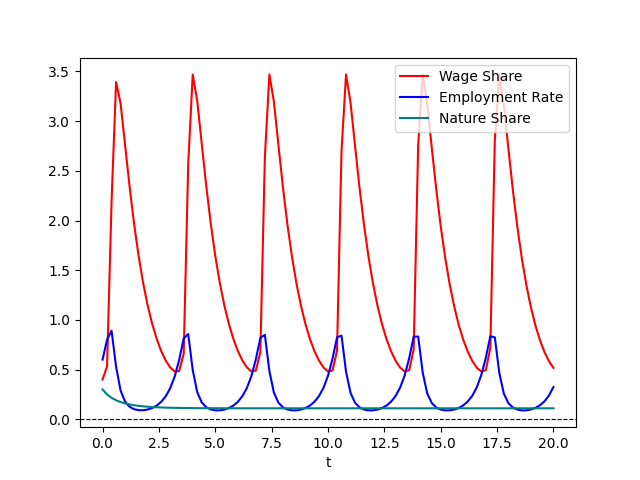
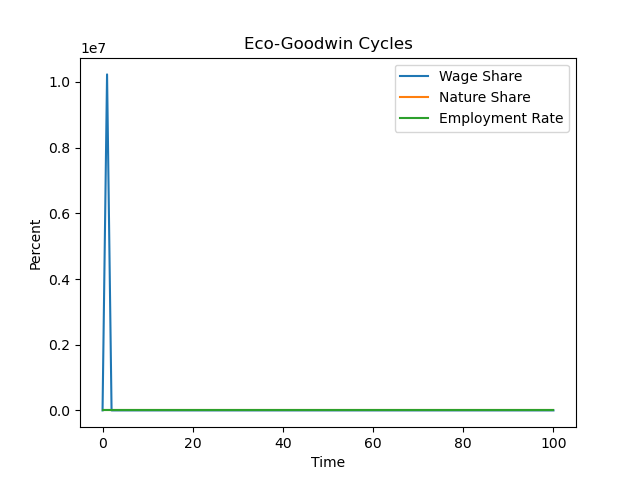
ugh

diff --git a/jupyter-env/Eco-Goodwin Cycles.py b/jupyter-env/Eco-Goodwin Cycles.py
@@ -1,18 +1,17 @@
 import numpy as np
-def eco_goodwin(y, t, s, n, delta, sig, phi0, phi1, phi2, a0, a1, a2, a3, theta0, theta1, lam, G, d):
-    omega, eta, e, x, k, v, z, b = y
-    dydt = [omega*(phi0+phi1/(1-e)+(phi2-1)*(a0+a1/(1-e)+a2*omega+a3*eta)), eta*(theta0+theta1*eta+((v**(sig/(1-sig)))/(1-sig))*(lam*(1-x/G)-d-(1-omega-eta-delta*z)/(s*k-z))), e*((1-omega-eta-delta*z)/(s*k-z)-n), x*(lam*(1-x/G)-d), k*((1-omega-eta-delta*z)/(s*k-z)), v*(lam*(1-x/G)-d - (1-omega-eta-delta*z)/(s*k-z)), z*((1-omega-eta-delta*z)/(s*k-z)-(1-omega-eta-delta*z)/(s*k-z)), b*(theta0+theta1*eta)]
-    return dydt
+import matplotlib.pyplot as plt
+from scipy.integrate import odeint
+
 
 
 # Initialize parameters
 s=0.8
 n=0.01
 delta=0.01
-sig=0.1
+sig=-100000000
 phi0=-1
 phi1=1
-phi2=1 #Captures worker power
+phi2=2 #Captures worker power
 a0=1
 a1=1
 a2=1
@@ -24,43 +23,78 @@ lam=0.1
 d=1
 rho=1
 
-y0 = [0.3,0.3,0.8,400,100,1,1,1]
+# solve the system dy/dt = f(y, t)
+def f(y, t):
+     wi = y[0]
+     etai = y[1]
+     ei = y[2]
+     xi = y[3]
+     ki = y[4]
+     vi = y[5]
+     zi = y[6]
+     bi = y[7]
+     y_outi = y[8]
+     # the model equations 
+     f0 = wi*(phi0+phi1/(1-ei)+(phi2-1)*(a0+a1/(1-ei)+a2*wi+a3*etai))
+     f1 = etai*(theta0+theta1*etai+((vi**(sig/(1-sig)))/(sig-1))*(lam*(1-xi/G)-d-(1-wi-etai-delta*zi)/(s*ki-zi)))
+     f2 = ei*((1-wi-etai-delta*zi)/(s*ki-zi)-n)
+     f3 = xi*(lam*(1-xi/G)-d)
+     f4 = ki*((1-wi-etai-delta*zi)/(s*ki-zi))
+     f5 = vi*(lam*(1-xi/G)-d - (1-wi-etai-delta*zi)/(s*ki-zi))
+     f6 = zi*((1-wi-etai-delta*zi)/zi-(1-wi-etai-delta*zi)/(s*ki-zi))
+     f7 = bi*(theta0+theta1*etai)
+     f8 = y_outi*((1-wi-etai-delta*zi)/(s*ki-zi))
+     return [f0, f1, f2, f3, f4, f5, f6, f7, f8]
 
-y=(rho*y0[5]**((sig-1)/sig)+b*y0[4]**(sig/(sig-1)))**(sig/(sig-1))
-z=y0[5]/y
-v=y0[4]/y
+# Initial conditions
 
-t = np.linspace(0, 100, 101)
+w0 = 0.3
+eta0 = 0.3
+e0 = 0.8
+x0 = 400
+k0 = 100
+b0=1
+y_init=(rho*k0**((sig-1)/sig)+b0*x0**(sig/(sig-1)))**(sig/(sig-1))
+z0=k0/y_init
+v0=x0/y_init
 
-from scipy.integrate import odeint
-sol = odeint(eco_goodwin, y0, t, args=(s, n, delta, sig, phi0, phi1, phi2, a0, a1, a2, a3, theta0, theta1, lam, G, d), rtol=1e-6, atol=1e-8)
 
+y0 = [w0,eta0,e0,x0,k0,v0,z0,b0,y_init]
 
-import matplotlib.pyplot as plt
-plt.plot(t, sol[:, 0], 'b', label='Wage Share')
-plt.plot(t, sol[:, 1], 'g', label='Nature Share')
-plt.plot(t, sol[:, 2], 'c', label='Employment Rate')
+t = np.linspace(0, 100, 101) # Fails after 2.3
+
+# Solve ODEs
+
+soln = odeint(f, y0, t, atol=1e-10, rtol=1e-10)
+w = soln[:, 0]
+eta = soln[:, 1]
+e = soln[:, 2]
+x = soln[:, 3]
+k = soln[:, 4]
+v = soln[:, 5]
+z = soln[:, 6]
+b = soln[:, 7]
+y_out = soln[:, 8]
+
+# plot results
+plt.figure()
+plt.plot(t, w, label='Wage Share')
+plt.plot(t, eta, label='Nature Share')
+plt.plot(t, e, label='Employment Rate')
 plt.legend(loc='best')
-plt.xlabel('t')
-plt.title('Environmental Fallout of Class Conflict')
-plt.grid()
-plt.show()
+plt.xlabel('Time')
+plt.ylabel('Percent')
+plt.title('Eco-Goodwin Cycles')
+plt.savefig('goodwin_model_plot.png')  # Save the plot as an image
 
 
+# Compute Jacobian matrix at the final time point
+J = np.zeros((len(y0), len(y0)))
+for i in range(len(y0)):
+    y_perturbed = y0.copy()
+    y_perturbed[i] += 1e-6  # Perturb the ith component
+    J[:, i] = (f(y_perturbed, t[-1])[0] - f(y0, t[-1])[0]) / 1e-6
 
-plt.plot(t, sol[:, 3], 'g', label='Natural Capital Growth')
-plt.plot(t, sol[:, 4], 'b', label='Capital Accumulation')
-plt.legend(loc='best')
-plt.xlabel('t')
-plt.title('Capitals')
-plt.grid()
-plt.show()
-
-plt.plot(t, sol[:, 7], 'b', label='Nature-biased technical change')
-plt.legend(loc='best')
-plt.xlabel('t')
-plt.title('Tech')
-plt.grid()
-plt.show()
-
-
+# Compute and print eigenvalues
+eigenvalues = np.linalg.eigvals(J)
+print("Eigenvalues of the Jacobian at the final time point:", eigenvalues)

diff --git a/jupyter-env/untitled.py b/jupyter-env/untitled.py
@@ -1,0 +1,82 @@
+# zombie apocalypse modeling
+import numpy as np
+import matplotlib.pyplot as plt
+from scipy.integrate import odeint
+plt.ion()
+plt.rcParams['figure.figsize'] = 10, 8
+
+P = 0      # birth rate
+d = 0.0001  # natural death percent (per day)
+B = 0.0095  # transmission percent  (per day)
+G = 0.0001  # resurect percent (per day)
+A = 0.0001  # destroy percent  (per day)
+
+# solve the system dy/dt = f(y, t)
+def f(y, t):
+     Si = y[0]
+     Zi = y[1]
+     Ri = y[2]
+     # the model equations (see Munz et al. 2009)
+     f0 = P - B*Si*Zi - d*Si
+     f1 = B*Si*Zi + G*Ri - A*Si*Zi
+     f2 = d*Si + A*Si*Zi - G*Ri
+     return [f0, f1, f2]
+
+# initial conditions
+S0 = 500.              # initial population
+Z0 = 0                 # initial zombie population
+R0 = 0                 # initial death population
+y0 = [S0, Z0, R0]     # initial condition vector
+t  = np.linspace(0, 5., 1000)         # time grid
+
+# solve the DEs
+soln = odeint(f, y0, t)
+S = soln[:, 0]
+Z = soln[:, 1]
+R = soln[:, 2]
+
+# plot results
+plt.figure()
+plt.plot(t, S, label='Living')
+plt.plot(t, Z, label='Zombies')
+plt.xlabel('Days from outbreak')
+plt.ylabel('Population')
+plt.title('Zombie Apocalypse - No Init. Dead Pop.; No New Births.')
+plt.legend(loc=0)
+
+# change the initial conditions
+R0 = 0.01*S0   # 1% of initial pop is dead
+y0 = [S0, Z0, R0]
+
+# solve the DEs
+soln = odeint(f, y0, t)
+S = soln[:, 0]
+Z = soln[:, 1]
+R = soln[:, 2]
+
+plt.figure()
+plt.plot(t, S, label='Living')
+plt.plot(t, Z, label='Zombies')
+plt.xlabel('Days from outbreak')
+plt.ylabel('Population')
+plt.title('Zombie Apocalypse - 1% Init. Pop. is Dead; No New Births.')
+plt.legend(loc=0)
+
+# change the initial conditions
+R0 = 0.01*S0   # 1% of initial pop is dead
+P  = 10        # 10 new births daily
+y0 = [S0, Z0, R0]
+
+# solve the DEs
+soln = odeint(f, y0, t)
+S = soln[:, 0]
+Z = soln[:, 1]
+R = soln[:, 2]
+
+plt.figure()
+plt.plot(t, S, label='Living')
+plt.plot(t, Z, label='Zombies')
+plt.xlabel('Days from outbreak')
+plt.ylabel('Population')
+plt.title('Zombie Apocalypse - 1% Init. Pop. is Dead; 10 Daily Births')
+plt.legend(loc=0)

diff --git a/jupyter-env/.ipynb_checkpoints/Eco-Goodwin Cycles-checkpoint.py b/jupyter-env/.ipynb_checkpoints/Eco-Goodwin Cycles-checkpoint.py
@@ -1,0 +1,70 @@
+import numpy as np
+def eco_goodwin(y, t, s, n, delta, sig, phi0, phi1, phi2, a0, a1, a2, a3, theta0, theta1, lam, G, d):
+    omega, eta, e, x, k, v, z, b, y_out = y
+    dydt = [omega*(phi0+phi1/(1-e)+(phi2-1)*(a0+a1/(1-e)+a2*omega+a3*eta)), eta*(theta0+theta1*eta+((v**(sig/(1-sig)))/(sig-1))*(lam*(1-x/G)-d-(1-omega-eta-delta*z)/(s*k-z))), e*((1-omega-eta-delta*z)/(s*k-z)-n), x*(lam*(1-x/G)-d), k*((1-omega-eta-delta*z)/(s*k-z)), v*(lam*(1-x/G)-d - (1-omega-eta-delta*z)/(s*k-z)), z*((1-omega-eta-delta*z)/z-(1-omega-eta-delta*z)/(s*k-z)), b*(theta0+theta1*eta), y_out*((1-omega-eta-delta*z)/(s*k-z))]
+    return dydt
+
+
+# Initialize parameters
+s=0.8
+n=0.01
+delta=0.01
+sig=-100000000
+phi0=-1
+phi1=1
+phi2=2 #Captures worker power
+a0=1
+a1=1
+a2=1
+a3=1
+theta0=0
+theta1=1
+G=100
+lam=0.1
+d=1
+rho=1
+
+# Initial conditions
+
+b0=1
+y_init=(rho*y0[5]**((sig-1)/sig)+b0*y0[4]**(sig/(sig-1)))**(sig/(sig-1))
+z0=y0[5]/y_init
+v0=y0[4]/y_init
+
+
+y0 = [0.3,0.3,0.8,400,100,v0,z0,y_init]
+
+t = np.linspace(0, 100, 101) # Fails after 2.3
+
+from scipy.integrate import odeint
+sol = odeint(eco_goodwin, y0, t, args=(s, n, delta, sig, phi0, phi1, phi2, a0, a1, a2, a3, theta0, theta1, lam, G, d), rtol=1e-6, atol=1e-8)
+
+
+import matplotlib.pyplot as plt
+plt.plot(t, sol[:, 0], 'b', label='Wage Share')
+plt.plot(t, sol[:, 1], 'g', label='Nature Share')
+plt.plot(t, sol[:, 2], 'c', label='Employment Rate')
+plt.legend(loc='best')
+plt.xlabel('t')
+plt.title('Environmental Fallout of Class Conflict')
+plt.grid()
+plt.show()
+
+
+
+plt.plot(t, sol[:, 3], 'g', label='Natural Capital Stock')
+plt.plot(t, sol[:, 4], 'b', label='Capital Stock')
+plt.legend(loc='best')
+plt.xlabel('t')
+plt.title('Capitals')
+plt.grid()
+plt.show()
+
+plt.plot(t, sol[:, 7], 'b', label='Nature-biased technical change')
+plt.legend(loc='best')
+plt.xlabel('t')
+plt.title('Tech')
+plt.grid()
+plt.show()
+
+
